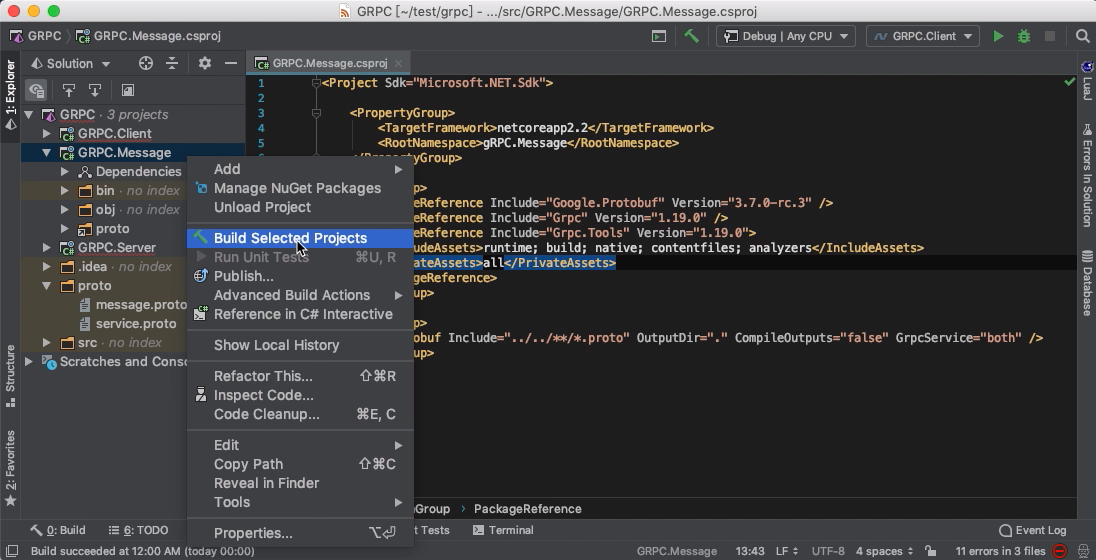
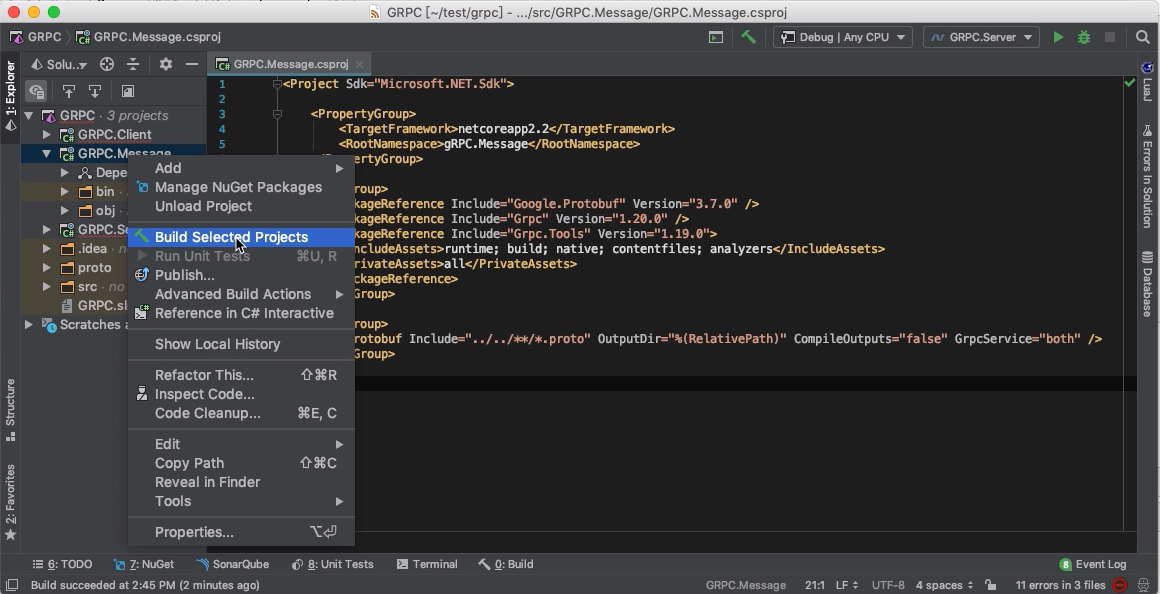
Adjust post

Changed region(s): [[0.0, 0.0, 1.0, 1.0], [0.3102, 0.0, 0.9307, 0.0911], [0.0, 0.7589, 0.031, 0.9107]]

diff --git a/source/_posts/gRPC-Protocol-Buffers-gRPC-Integration-Into-NET-Build.md b/source/_posts/gRPC-Protocol-Buffers-gRPC-Integration-Into-NET-Build.md
@@ -37,7 +37,7 @@ proto 檔放在上上層的 proto 目錄下。
 ```xml
 ...
 <ItemGroup>
-    <Protobuf Include="../../**/*.proto" OutputDir="." CompileOutputs="false" GrpcService="both" />
+    <Protobuf Include="../../**/*.proto" OutputDir="%(RelativePath)" CompileOutputs="false" GrpcService="both" />
 </ItemGroup>
 ...
 ```
